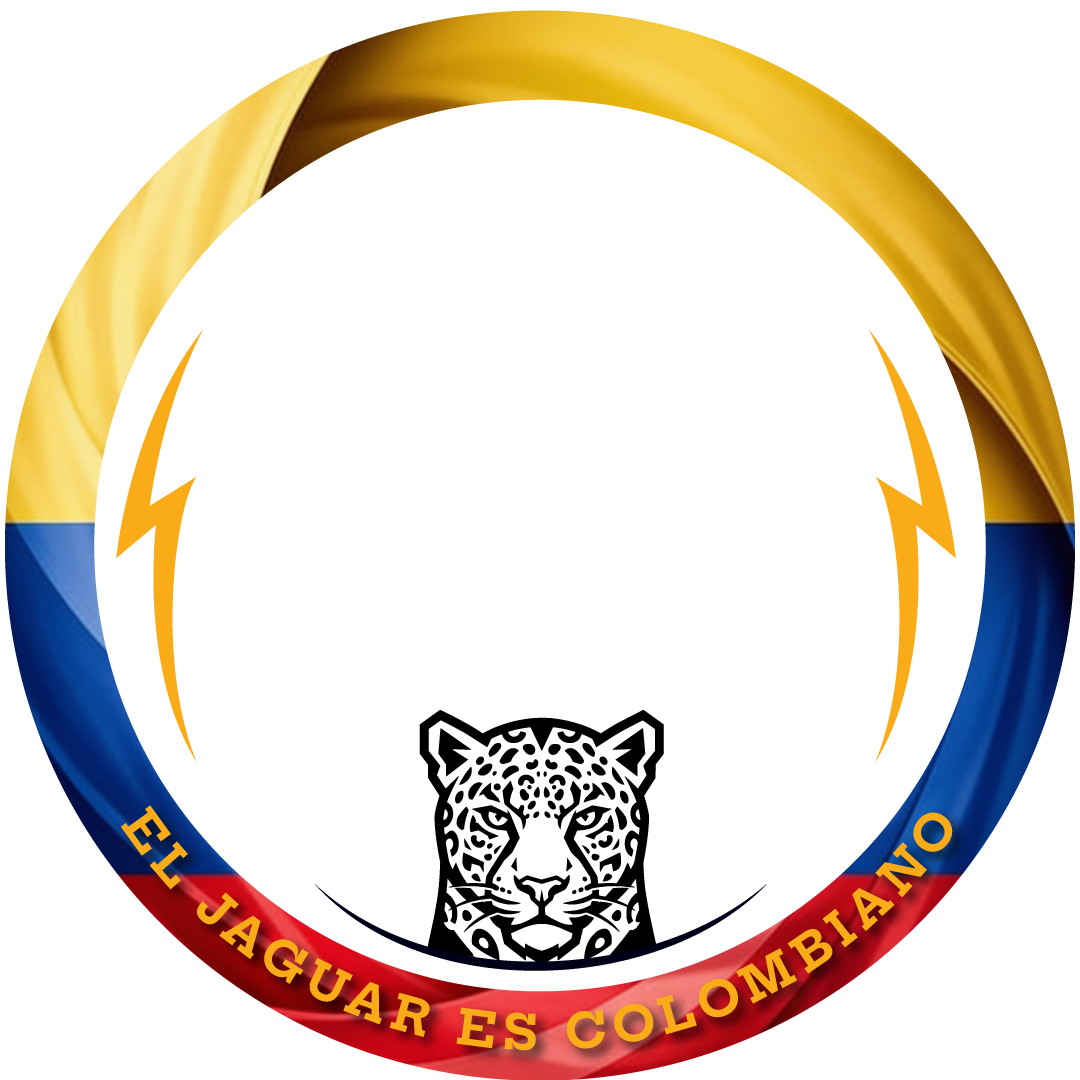
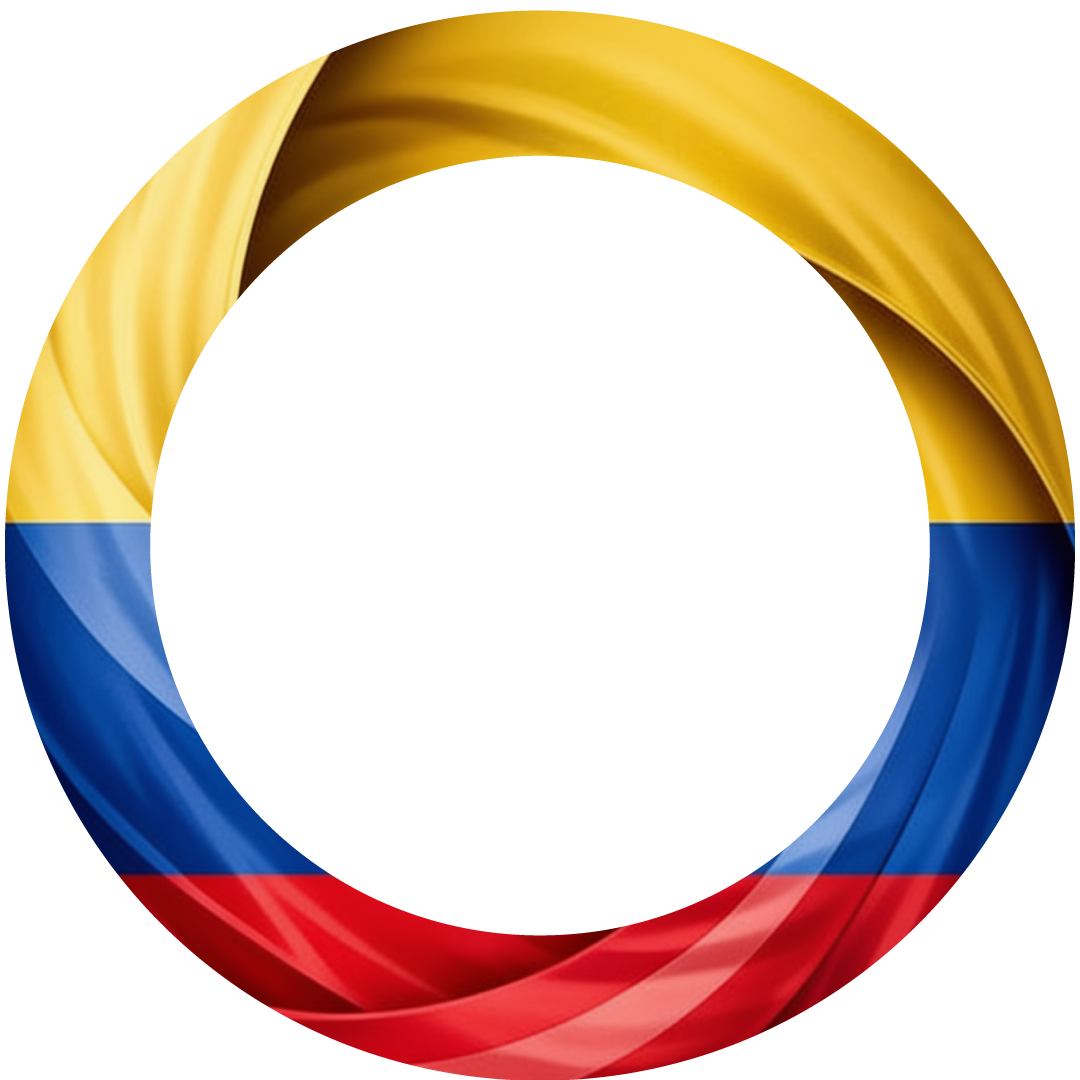
Ajustar diseño de marcos 2 y 3 y visibilidad de lema

Changed region(s): [[0.0611, 0.0917, 0.9167, 1.0]]

diff --git a/app.js b/app.js
@@ -3,7 +3,7 @@
 
 // Precargar el diseño oficial png 1 aportado por el usuario
 const officialFrameImg = new Image();
-officialFrameImg.src = '/profile-desing-1.png';
+officialFrameImg.src = '/profile-desing-1.png?v=' + Date.now();
 officialFrameImg.onerror = () => {
   if (officialFrameImg.src !== window.location.origin + '/img-profile/profile-desing-1.png') {
     officialFrameImg.src = '/img-profile/profile-desing-1.png';
@@ -18,15 +18,32 @@ officialFrameImg.onload = () => {
   }
 };
 
-// Precargar el diseño oficial png 2 aportado por el usuario (Opción 3)
+// Precargar el diseño oficial png 2 cargado por el usuario (Opción 2)
 const officialFrame2Img = new Image();
-officialFrame2Img.src = '/profile-desing-2.png';
+officialFrame2Img.src = '/profile-desing-2.png?v=' + Date.now();
 officialFrame2Img.onerror = () => {
   if (officialFrame2Img.src !== window.location.origin + '/img-profile/profile-desing-2.png') {
     officialFrame2Img.src = '/img-profile/profile-desing-2.png';
   }
 };
 officialFrame2Img.onload = () => {
+  if (typeof renderFramesGrid === 'function') {
+    renderFramesGrid();
+  }
+  if (typeof drawCanvas === 'function') {
+    drawCanvas();
+  }
+};
+
+// Precargar el diseño oficial png 3 cargado por el usuario (Opción 3)
+const officialFrame3Img = new Image();
+officialFrame3Img.src = '/profile-desing-3.png?v=' + Date.now();
+officialFrame3Img.onerror = () => {
+  if (officialFrame3Img.src !== window.location.origin + '/img-profile/profile-desing-3.png') {
+    officialFrame3Img.src = '/img-profile/profile-desing-3.png';
+  }
+};
+officialFrame3Img.onload = () => {
   if (typeof renderFramesGrid === 'function') {
     renderFramesGrid();
   }
@@ -195,39 +212,34 @@ const FRAMES = [
   {
     id: 'frame-ondeante',
     name: 'Tricolor Ondeante',
-    description: 'Diseño premium con la textura de la bandera ondeante real y banners de texto.',
+    description: 'Diseño oficial con la bandera tricolor y lema personalizable.',
     draw: (ctx, w, h, slogan) => {
       const centerX = w / 2;
       const centerY = h / 2;
 
-      // 1. Dibujar la bandera tricolor circular (imagen png)
-      if (officialFrameImg.complete && officialFrameImg.naturalWidth !== 0) {
-        ctx.drawImage(officialFrameImg, 0, 0, w, h);
+      // 1. Dibujar la bandera tricolor circular (profile-desing-2.png)
+      if (officialFrame2Img.complete && officialFrame2Img.naturalWidth !== 0) {
+        ctx.drawImage(officialFrame2Img, 0, 0, w, h);
       } else {
         // Fallback si la imagen no ha cargado aún
         ctx.lineWidth = 24;
-        ctx.strokeStyle = '#FCD116';
+        ctx.strokeStyle = '#ffd000'; // Amarillo campaña
         ctx.beginPath();
-        ctx.arc(centerX, centerY, w / 2 - 20, 1.0 * Math.PI, 2.0 * Math.PI);
-        ctx.stroke();
-        ctx.lineWidth = 24;
-        ctx.strokeStyle = '#CE1126';
-        ctx.beginPath();
-        ctx.arc(centerX, centerY, w / 2 - 20, 0, 1.0 * Math.PI);
+        ctx.arc(centerX, centerY, w / 2 - 20, 0, 2 * Math.PI);
         ctx.stroke();
       }
 
       // 2. Banner inferior CURVADO para el lema principal
       ctx.save();
       ctx.lineWidth = 85;
-      ctx.strokeStyle = 'rgba(15, 23, 42, 0.96)';
+      ctx.strokeStyle = 'rgba(40, 60, 190, 0.85)'; // Azul campaña Cepeda translúcido
       ctx.beginPath();
       ctx.arc(centerX, centerY, 435, 0.20 * Math.PI, 0.80 * Math.PI);
       ctx.stroke();
 
       // Borde dorado superior del arco
       ctx.lineWidth = 3;
-      ctx.strokeStyle = '#FCD116';
+      ctx.strokeStyle = '#ffd000'; // Amarillo campaña Cepeda
       ctx.beginPath();
       ctx.arc(centerX, centerY, 477, 0.20 * Math.PI, 0.80 * Math.PI);
       ctx.stroke();
@@ -244,14 +256,14 @@ const FRAMES = [
       // 3. Banner superior CURVADO para "CIUDADANO COLOMBIANO"
       ctx.save();
       ctx.lineWidth = 85;
-      ctx.strokeStyle = 'rgba(15, 23, 42, 0.96)';
+      ctx.strokeStyle = 'rgba(40, 60, 190, 0.85)'; // Azul campaña Cepeda translúcido
       ctx.beginPath();
       ctx.arc(centerX, centerY, 435, 1.30 * Math.PI, 1.70 * Math.PI);
       ctx.stroke();
 
       // Borde dorado superior del arco superior
       ctx.lineWidth = 3;
-      ctx.strokeStyle = '#FCD116';
+      ctx.strokeStyle = '#ffd000';
       ctx.beginPath();
       ctx.arc(centerX, centerY, 477, 1.30 * Math.PI, 1.70 * Math.PI);
       ctx.stroke();
@@ -268,35 +280,35 @@ const FRAMES = [
   },
   {
     id: 'frame-constitucion',
-    name: 'Soberanía Patria',
-    description: 'Segundo diseño oficial con la bandera de fondo y lema en el banner superior.',
+    name: 'El jaguar Colombiano',
+    description: 'Diseño oficial con la bandera, el jaguar y lema superior.',
     draw: (ctx, w, h, slogan) => {
       const centerX = w / 2;
       const centerY = h / 2;
 
-      // 1. Dibujar la bandera tricolor circular (imagen png)
-      if (officialFrame2Img.complete && officialFrame2Img.naturalWidth !== 0) {
-        ctx.drawImage(officialFrame2Img, 0, 0, w, h);
+      // 1. Dibujar la bandera tricolor circular (profile-desing-3.png)
+      if (officialFrame3Img.complete && officialFrame3Img.naturalWidth !== 0) {
+        ctx.drawImage(officialFrame3Img, 0, 0, w, h);
       } else {
         // Fallback si la imagen no ha cargado aún
         ctx.lineWidth = 24;
-        ctx.strokeStyle = '#003893';
+        ctx.strokeStyle = '#ff4400'; // Naranja campaña
         ctx.beginPath();
         ctx.arc(centerX, centerY, w / 2 - 20, 0, 2 * Math.PI);
         ctx.stroke();
       }
 
-      // 2. Banner superior CURVADO para el lema personalizable (Evita desbordes)
+      // 2. Banner superior CURVADO para "LA PATRIA SE DEFIENDE, NO SE VENDE"
       ctx.save();
       ctx.lineWidth = 85;
-      ctx.strokeStyle = 'rgba(15, 23, 42, 0.96)';
+      ctx.strokeStyle = 'rgba(40, 60, 190, 0.85)'; // Azul campaña Cepeda translúcido
       ctx.beginPath();
       ctx.arc(centerX, centerY, 435, 1.20 * Math.PI, 1.80 * Math.PI);
       ctx.stroke();
 
       // Borde dorado superior del arco superior
       ctx.lineWidth = 3;
-      ctx.strokeStyle = '#FCD116';
+      ctx.strokeStyle = '#ffd000'; // Amarillo campaña Cepeda
       ctx.beginPath();
       ctx.arc(centerX, centerY, 477, 1.20 * Math.PI, 1.80 * Math.PI);
       ctx.stroke();
@@ -308,7 +320,7 @@ const FRAMES = [
       ctx.restore();
 
       // Escribir el lema curvado arriba
-      drawCurvedTextTop(ctx, slogan, centerX, centerY, 435, -Math.PI / 2, 0.046, '#FFFFFF', 'bold 34px Outfit, sans-serif');
+      drawCurvedTextTop(ctx, 'LA PATRIA SE DEFIENDE, NO SE VENDE', centerX, centerY, 435, -Math.PI / 2, 0.046, '#FFFFFF', 'bold 34px Outfit, sans-serif');
     }
   }
 ];
@@ -385,10 +397,14 @@ function init() {
   setupEventListeners();
   renderFramesGrid();
   
-  // Ocultar lema por defecto si la primera opción está activa
+  // Mostrar lema únicamente si la opción activa es la 2 (personalizable)
   const sloganCard = document.getElementById('cardStep4');
-  if (sloganCard && state.frameId === 'frame-ciudadano') {
-    sloganCard.style.display = 'none';
+  if (sloganCard) {
+    if (state.frameId === 'frame-ondeante') {
+      sloganCard.style.display = 'block';
+    } else {
+      sloganCard.style.display = 'none';
+    }
   }
   
   drawCanvas(); // Dibuja la pantalla inicial sin foto
@@ -438,13 +454,13 @@ function renderFramesGrid() {
       item.classList.add('active');
       state.frameId = frame.id;
       
-      // Mostrar/ocultar control de lema según corresponda
+      // Mostrar/ocultar control de lema según corresponda (solo visible en opción 2)
       const sloganCard = document.getElementById('cardStep4');
       if (sloganCard) {
-        if (frame.id === 'frame-ciudadano') {
-          sloganCard.style.display = 'none';
-        } else {
+        if (frame.id === 'frame-ondeante') {
           sloganCard.style.display = 'block';
+        } else {
+          sloganCard.style.display = 'none';
         }
       }
       